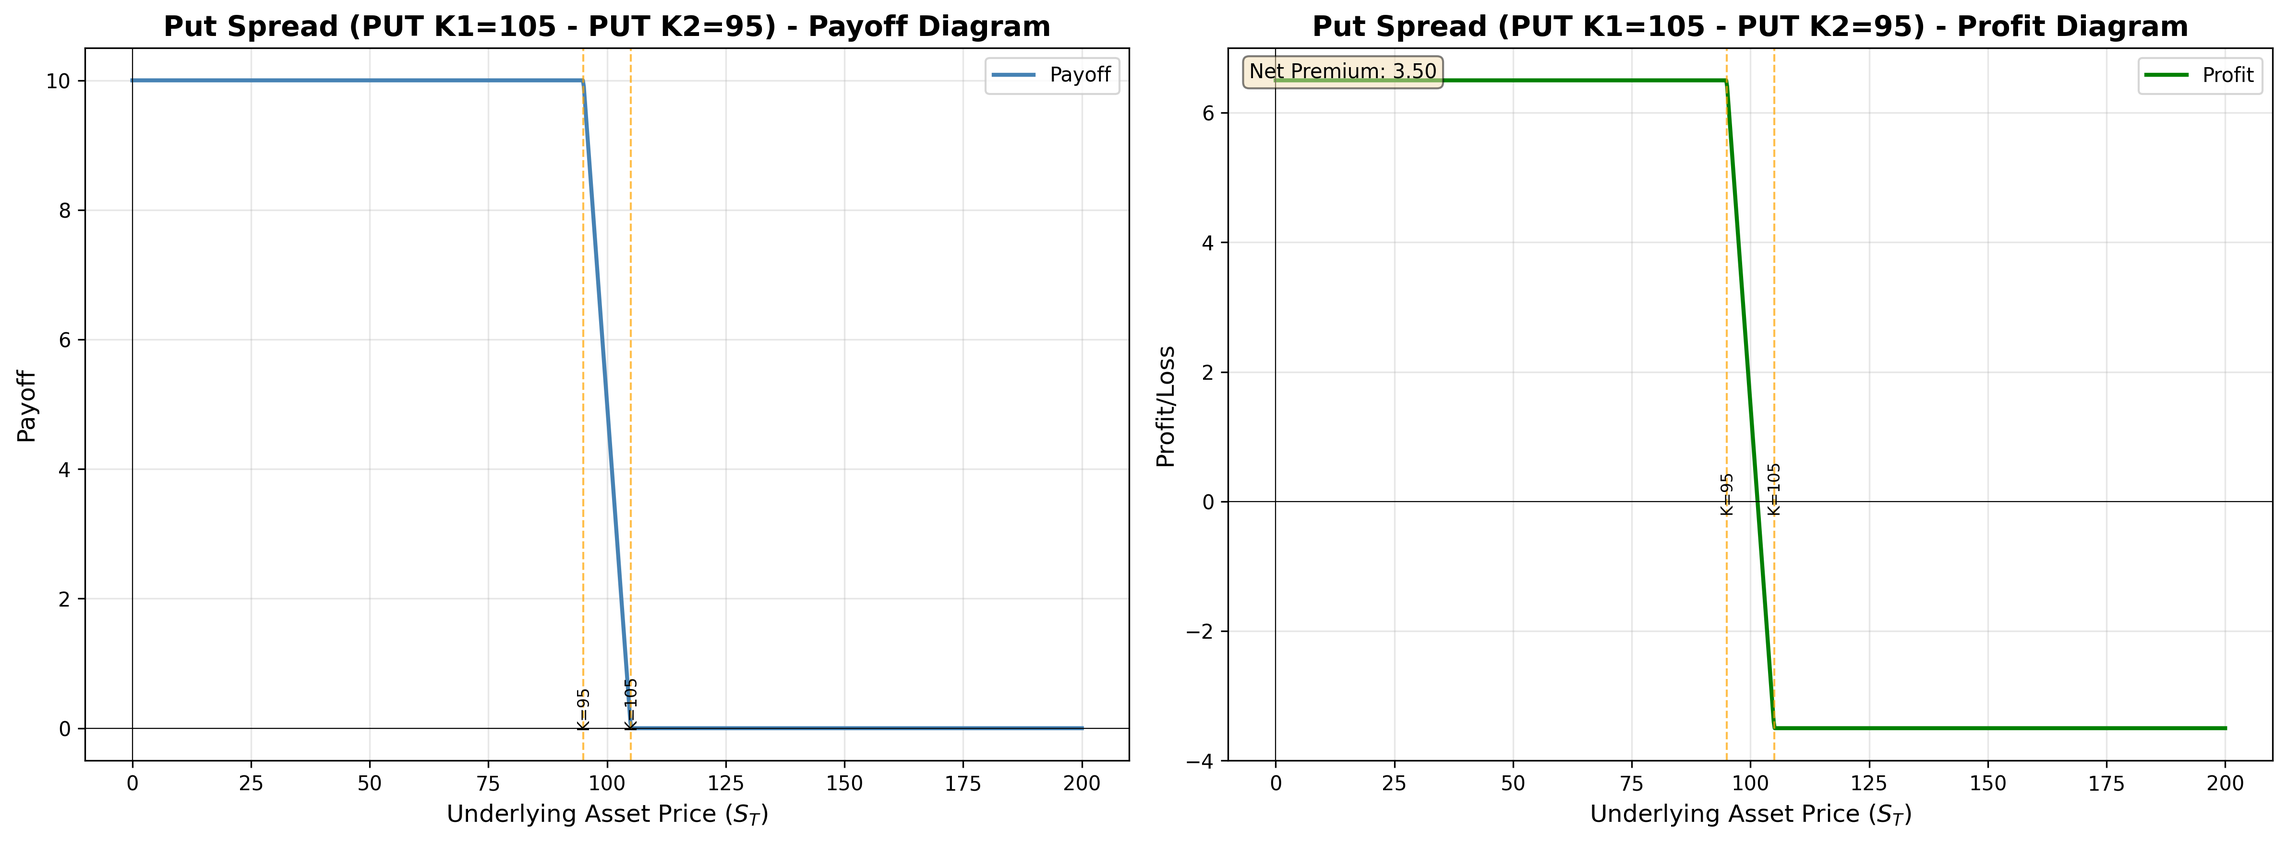
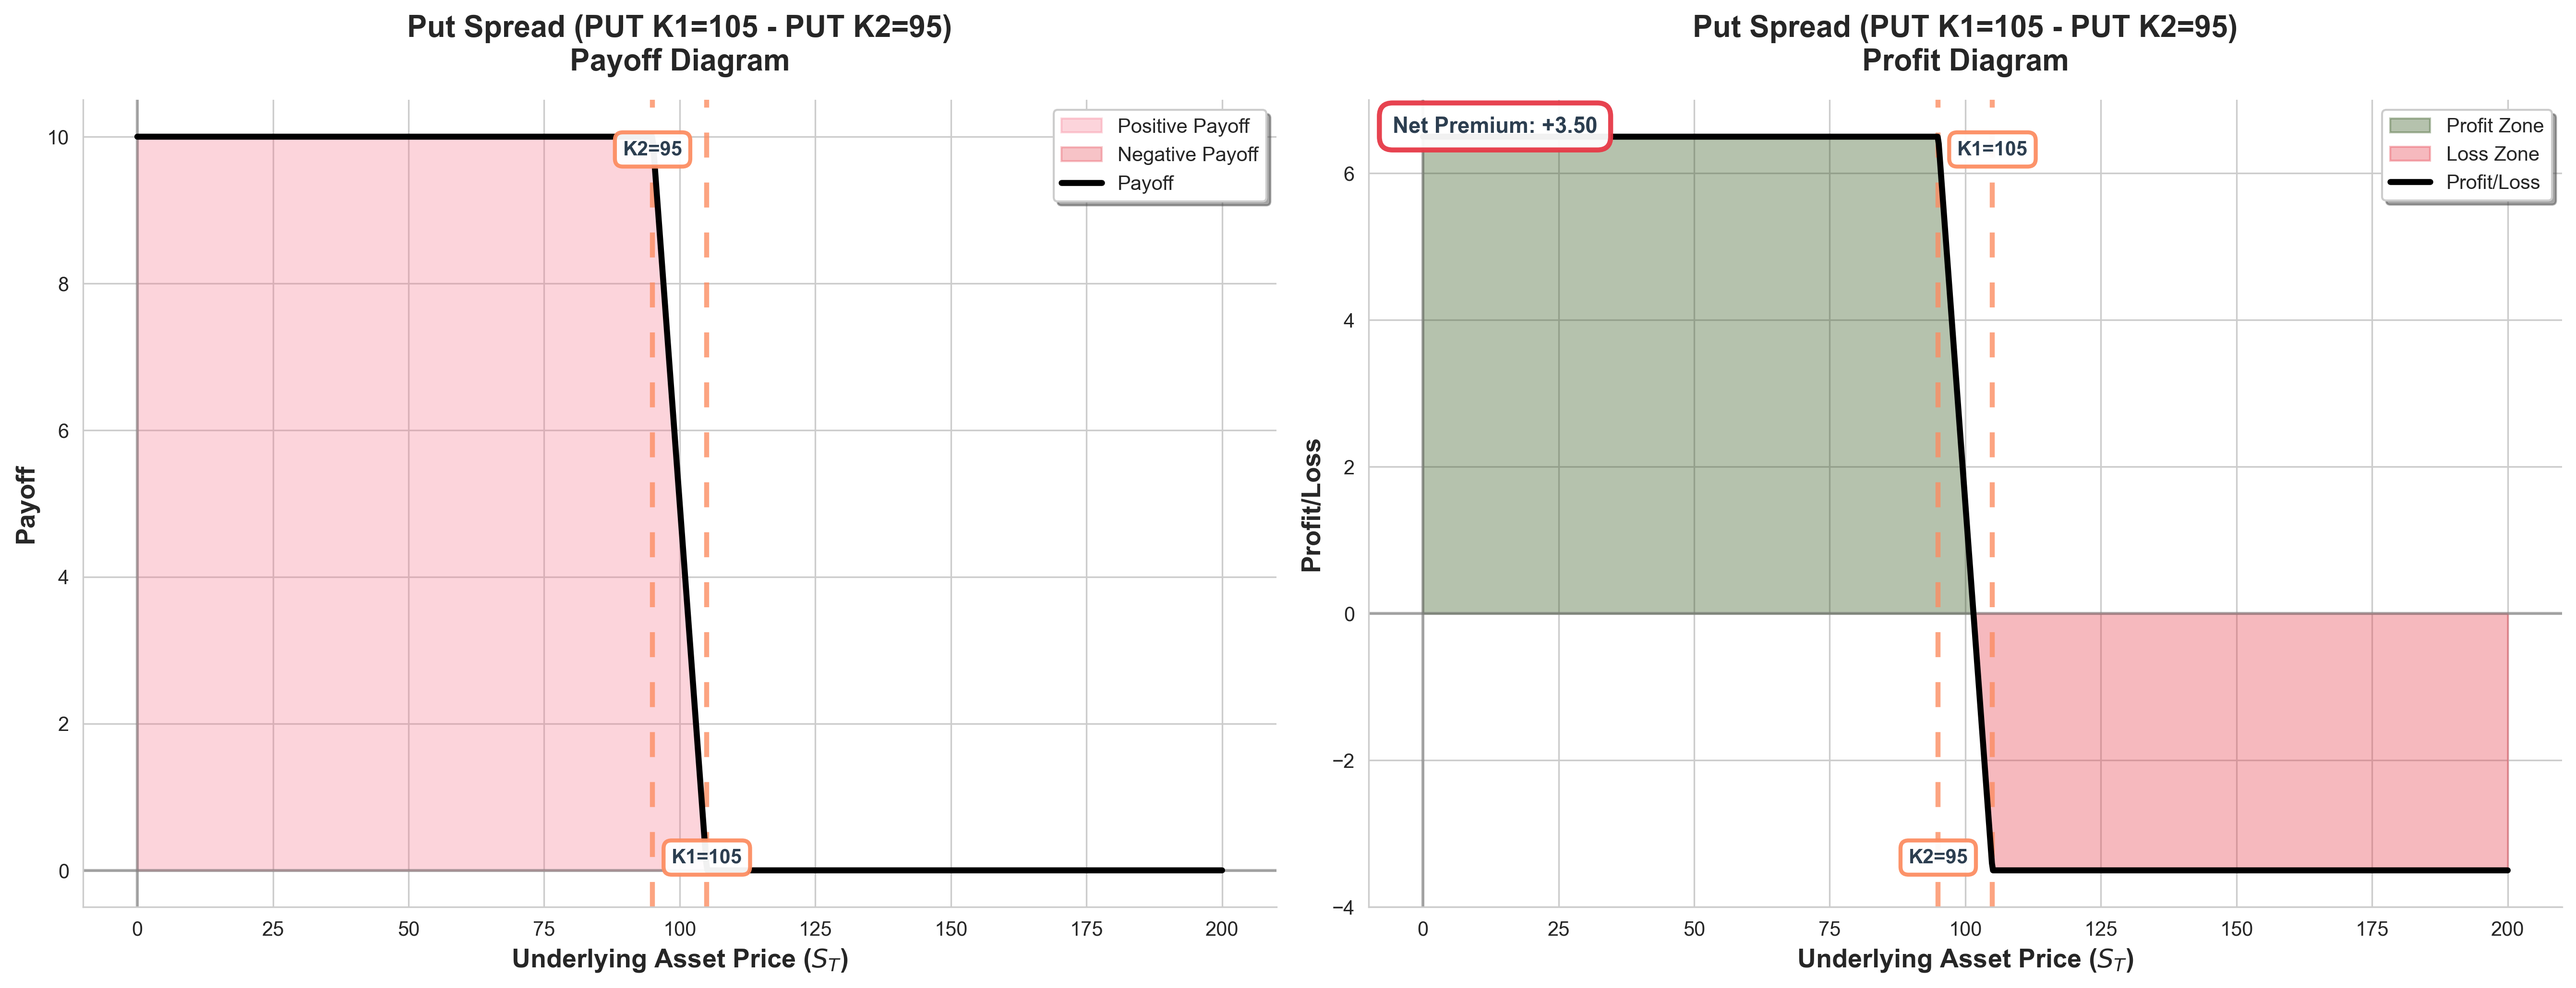
Improvement of graphs style

diff --git a/option_strategies.py b/option_strategies.py
@@ -14,9 +14,16 @@ All strategies are based on European options and assume expiration at maturity.
 
 import numpy as np
 import matplotlib.pyplot as plt
+import seaborn as sns
 import os
 import math
 from typing import Tuple, Optional, List
+
+# Set Seaborn style for beautiful plots
+sns.set_style("whitegrid")
+sns.set_palette("husl")
+plt.rcParams['figure.facecolor'] = 'white'
+plt.rcParams['axes.facecolor'] = 'white'
 
 
 class OptionStrategies:
@@ -93,7 +100,7 @@ class OptionStrategies:
     def _plot_strategy(self, S: np.ndarray, payoff: np.ndarray, profit: np.ndarray,
                       strategy_name: str, strikes: List[float], premiums: Optional[float] = None):
         """
-        Create and save plots for a strategy showing both payoff and profit.
+        Create and save beautiful plots using Seaborn styling for a strategy showing both payoff and profit.
         
         Parameters:
         -----------
@@ -110,45 +117,118 @@ class OptionStrategies:
         premiums : float, optional
             Net premium paid/received (for annotation)
         """
-        fig, (ax1, ax2) = plt.subplots(1, 2, figsize=(16, 6))
+        # Create figure with Seaborn styling
+        fig, (ax1, ax2) = plt.subplots(1, 2, figsize=(18, 7))
+        fig.patch.set_facecolor('white')
         
-        # Payoff plot
-        ax1.plot(S, payoff, linewidth=2, color='steelblue', label='Payoff')
-        ax1.axhline(0, color='black', linestyle='-', linewidth=0.5)
-        ax1.axvline(0, color='black', linestyle='-', linewidth=0.5)
-        for K in strikes:
-            ax1.axvline(K, color='orange', linestyle='--', linewidth=1, alpha=0.7)
-            ax1.text(K, ax1.get_ylim()[0] * 0.05, f'K={K}', ha='center', va='bottom', 
-                    rotation=90, fontsize=8)
-        ax1.set_xlabel('Underlying Asset Price ($S_T$)', fontsize=12)
-        ax1.set_ylabel('Payoff', fontsize=12)
-        ax1.set_title(f'{strategy_name} - Payoff Diagram', fontsize=14, fontweight='bold')
-        ax1.grid(True, alpha=0.3)
-        ax1.legend()
+        # Beautiful color palette - modern and professional
+        colors = sns.color_palette("husl", 8)
+        payoff_color = colors[0]  # Beautiful blue/teal for payoff fill areas
+        line_color = '#000000'  # Black for all lines (payoff and profit)
+        profit_fill_color = '#2D5016'  # Dark green for profit zone
+        loss_fill_color = '#E63946'  # Nice red for loss zone
+        strike_color = sns.color_palette("Set2")[1]  # Orange from Set2 palette
         
-        # Profit plot
-        ax2.plot(S, profit, linewidth=2, color='green', label='Profit')
-        ax2.axhline(0, color='black', linestyle='-', linewidth=0.5)
-        ax2.axvline(0, color='black', linestyle='-', linewidth=0.5)
-        for K in strikes:
-            ax2.axvline(K, color='orange', linestyle='--', linewidth=1, alpha=0.7)
-            ax2.text(K, ax2.get_ylim()[0] * 0.05, f'K={K}', ha='center', va='bottom', 
-                    rotation=90, fontsize=8)
+        # ========== PAYOFF PLOT ==========
+        # Fill areas above and below zero for better visualization
+        ax1.fill_between(S, 0, payoff, where=(payoff >= 0), 
+                         alpha=0.3, color=payoff_color, label='Positive Payoff')
+        ax1.fill_between(S, 0, payoff, where=(payoff < 0), 
+                         alpha=0.3, color=loss_fill_color, label='Negative Payoff')
+        
+        # Plot payoff line in black
+        ax1.plot(S, payoff, linewidth=3, color=line_color, 
+                label='Payoff', zorder=5, antialiased=True)
+        
+        # Zero reference lines
+        ax1.axhline(0, color='gray', linestyle='-', linewidth=1.5, alpha=0.6, zorder=1)
+        ax1.axvline(0, color='gray', linestyle='-', linewidth=1.5, alpha=0.6, zorder=1)
+        
+        # Strike price lines with better styling - avoid overlapping labels
+        y_min, y_max = ax1.get_ylim()
+        y_range = y_max - y_min
+        for i, K in enumerate(strikes):
+            ax1.axvline(K, color=strike_color, linestyle='--', linewidth=2.5, 
+                       alpha=0.8, zorder=2, dashes=(5, 5))
+            # Position labels alternately above and below to avoid overlap
+            # Alternate between top and bottom positions
+            if i % 2 == 0:
+                y_pos = y_min + y_range * 0.05  # Bottom position
+                va = 'bottom'
+            else:
+                y_pos = y_max - y_range * 0.05  # Top position
+                va = 'top'
+            ax1.text(K, y_pos, f'K{i+1}={K:.0f}', ha='center', va=va, 
+                    rotation=0, fontsize=10, fontweight='bold',
+                    bbox=dict(boxstyle='round,pad=0.4', facecolor='white', 
+                             edgecolor=strike_color, linewidth=2, alpha=0.95),
+                    zorder=6, color='#2C3E50')
+        
+        # Styling with Seaborn
+        ax1.set_xlabel('Underlying Asset Price ($S_T$)', fontsize=13, fontweight='bold')
+        ax1.set_ylabel('Payoff', fontsize=13, fontweight='bold')
+        ax1.set_title(f'{strategy_name}\nPayoff Diagram', fontsize=15, fontweight='bold', pad=15)
+        ax1.legend(loc='best', frameon=True, fancybox=True, shadow=True, fontsize=10)
+        sns.despine(ax=ax1, left=False, bottom=False)
+        
+        # ========== PROFIT PLOT ==========
+        # Fill profit and loss areas
+        ax2.fill_between(S, 0, profit, where=(profit >= 0), 
+                         alpha=0.35, color=profit_fill_color, label='Profit Zone')
+        ax2.fill_between(S, 0, profit, where=(profit < 0), 
+                         alpha=0.35, color=loss_fill_color, label='Loss Zone')
+        
+        # Plot profit line in black
+        ax2.plot(S, profit, linewidth=3, color=line_color, 
+                label='Profit/Loss', zorder=5, antialiased=True)
+        
+        # Zero reference lines
+        ax2.axhline(0, color='gray', linestyle='-', linewidth=1.5, alpha=0.6, zorder=1)
+        ax2.axvline(0, color='gray', linestyle='-', linewidth=1.5, alpha=0.6, zorder=1)
+        
+        # Strike price lines - avoid overlapping labels
+        y_min, y_max = ax2.get_ylim()
+        y_range = y_max - y_min
+        for i, K in enumerate(strikes):
+            ax2.axvline(K, color=strike_color, linestyle='--', linewidth=2.5, 
+                       alpha=0.8, zorder=2, dashes=(5, 5))
+            # Position labels alternately above and below to avoid overlap
+            # Use opposite pattern from payoff plot for variety
+            if i % 2 == 0:
+                y_pos = y_max - y_range * 0.05  # Top position
+                va = 'top'
+            else:
+                y_pos = y_min + y_range * 0.05  # Bottom position
+                va = 'bottom'
+            ax2.text(K, y_pos, f'K{i+1}={K:.0f}', ha='center', va=va, 
+                    rotation=0, fontsize=10, fontweight='bold',
+                    bbox=dict(boxstyle='round,pad=0.4', facecolor='white', 
+                             edgecolor=strike_color, linewidth=2, alpha=0.95),
+                    zorder=6, color='#2C3E50')
+        
+        # Premium annotation with Seaborn styling
         if premiums is not None:
-            ax2.text(0.02, 0.98, f'Net Premium: {premiums:.2f}', 
-                    transform=ax2.transAxes, fontsize=10,
-                    verticalalignment='top', bbox=dict(boxstyle='round', facecolor='wheat', alpha=0.5))
-        ax2.set_xlabel('Underlying Asset Price ($S_T$)', fontsize=12)
-        ax2.set_ylabel('Profit/Loss', fontsize=12)
-        ax2.set_title(f'{strategy_name} - Profit Diagram', fontsize=14, fontweight='bold')
-        ax2.grid(True, alpha=0.3)
-        ax2.legend()
+            premium_text = f'Net Premium: {premiums:+.2f}'
+            premium_color = profit_fill_color if premiums < 0 else loss_fill_color
+            ax2.text(0.02, 0.98, premium_text, 
+                    transform=ax2.transAxes, fontsize=11, fontweight='bold',
+                    verticalalignment='top', 
+                    bbox=dict(boxstyle='round,pad=0.6', facecolor='white', 
+                             edgecolor=premium_color, linewidth=2.5, alpha=0.95),
+                    color='#2C3E50', zorder=7)
+        
+        # Styling with Seaborn
+        ax2.set_xlabel('Underlying Asset Price ($S_T$)', fontsize=13, fontweight='bold')
+        ax2.set_ylabel('Profit/Loss', fontsize=13, fontweight='bold')
+        ax2.set_title(f'{strategy_name}\nProfit Diagram', fontsize=15, fontweight='bold', pad=15)
+        ax2.legend(loc='best', frameon=True, fancybox=True, shadow=True, fontsize=10)
+        sns.despine(ax=ax2, left=False, bottom=False)
         
         plt.tight_layout()
         
-        # Save plot
-        filename = f"{self.plot_dir}/{strategy_name.lower().replace(' ', '_')}.png"
-        plt.savefig(filename, dpi=300, bbox_inches='tight')
+        # Save plot with high quality
+        filename = f"{self.plot_dir}/{strategy_name.lower().replace(' ', '_').replace('×', 'x')}.png"
+        plt.savefig(filename, dpi=300, bbox_inches='tight', facecolor='white', edgecolor='none')
         plt.close()
         
         print(f"Plot saved to: {filename}")
